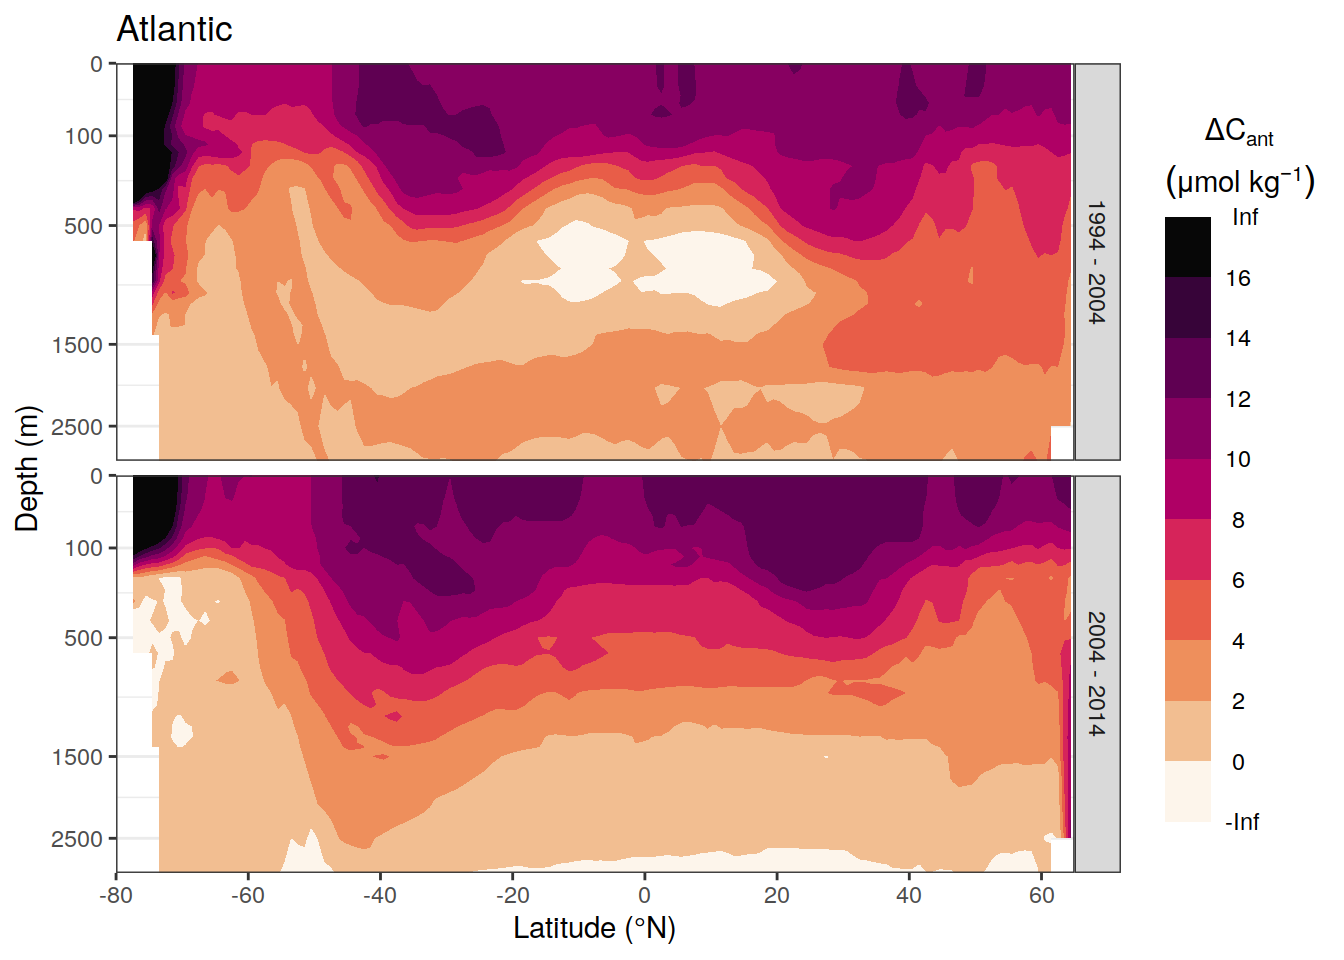
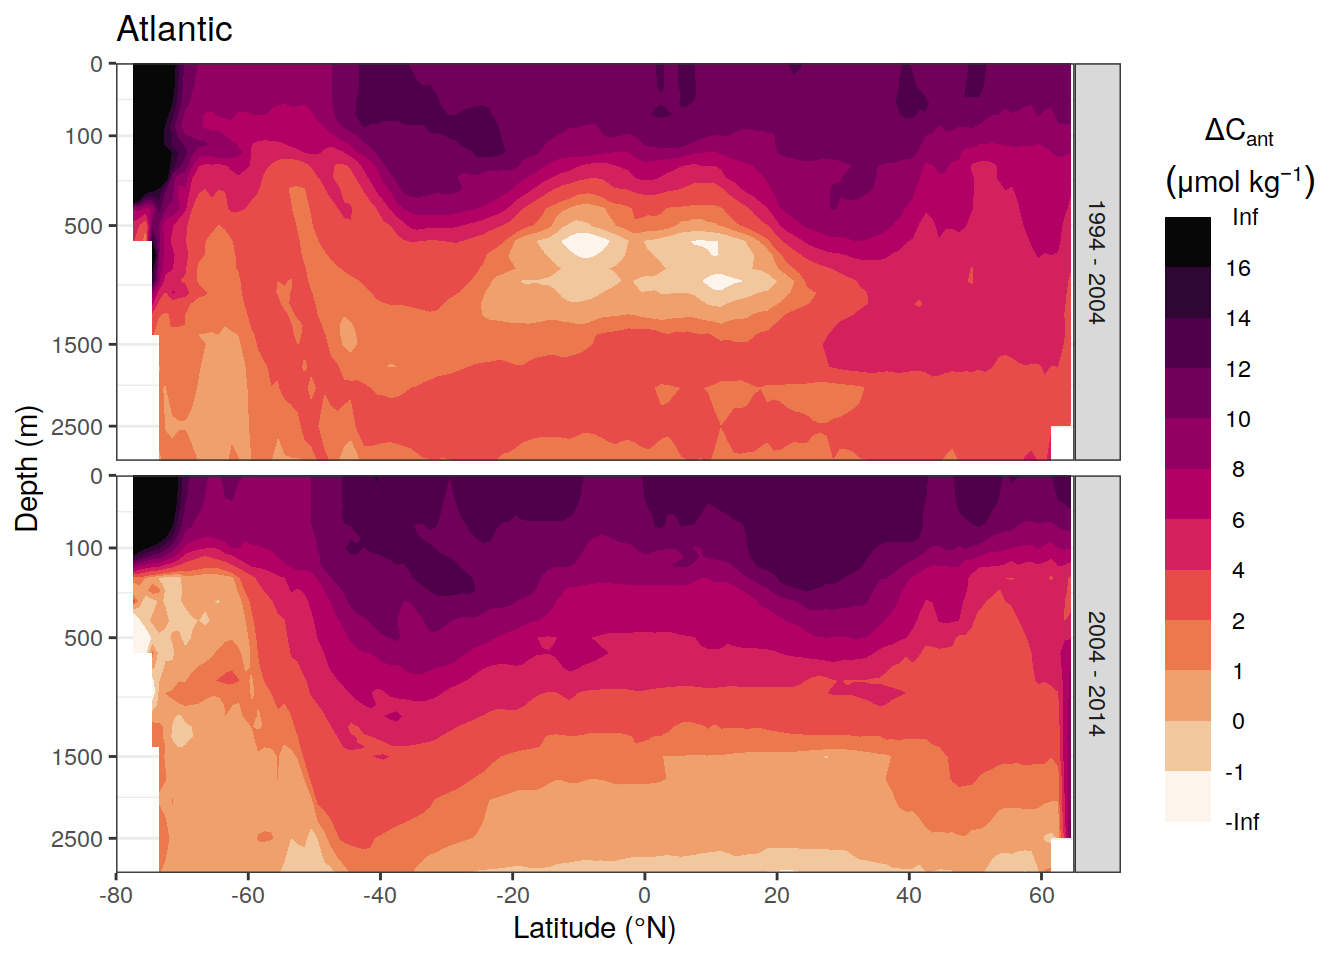
Build site.

diff --git a/docs/results_publication.html b/docs/results_publication.html
@@ -715,16 +715,16 @@ This reproducible <a href="https://rmarkdown.rstudio.com">R Markdown</a> analysi
 <div class="panel panel-default">
 <div class="panel-heading">
 <p class="panel-title">
-<a data-toggle="collapse" data-parent="#workflowr-checks" href="#strongRepositoryversionstrongahrefhttpsgithubcomjensdanielmuelleremlrobsanalysistree55e9ac603e2253f761dd009a3b1db8ee03a77f64targetblank55e9ac6a"> <span class="glyphicon glyphicon-ok text-success" aria-hidden="true"></span> <strong>Repository version:</strong> <a href="https://github.com/jens-daniel-mueller/emlr_obs_analysis/tree/55e9ac603e2253f761dd009a3b1db8ee03a77f64" target="_blank">55e9ac6</a> </a>
+<a data-toggle="collapse" data-parent="#workflowr-checks" href="#strongRepositoryversionstrongahrefhttpsgithubcomjensdanielmuelleremlrobsanalysistree6fc84382a3e4b93680d35a0056149ad21e2f51aetargetblank6fc8438a"> <span class="glyphicon glyphicon-ok text-success" aria-hidden="true"></span> <strong>Repository version:</strong> <a href="https://github.com/jens-daniel-mueller/emlr_obs_analysis/tree/6fc84382a3e4b93680d35a0056149ad21e2f51ae" target="_blank">6fc8438</a> </a>
 </p>
 </div>
[2 lines of base64/hex data omitted]
 <div class="panel-body">
 <p>
 Great! You are using Git for version control. Tracking code development and connecting the code version to the results is critical for reproducibility.
 </p>
 <p>
-The results in this page were generated with repository version <a href="https://github.com/jens-daniel-mueller/emlr_obs_analysis/tree/55e9ac603e2253f761dd009a3b1db8ee03a77f64" target="_blank">55e9ac6</a>. See the <em>Past versions</em> tab to see a history of the changes made to the R Markdown and HTML files.
+The results in this page were generated with repository version <a href="https://github.com/jens-daniel-mueller/emlr_obs_analysis/tree/6fc84382a3e4b93680d35a0056149ad21e2f51ae" target="_blank">6fc8438</a>. See the <em>Past versions</em> tab to see a history of the changes made to the R Markdown and HTML files.
 </p>
 <p>
 Note that you need to be careful to ensure that all relevant files for the analysis have been committed to Git prior to generating the results (you can use <code>wflow_publish</code> or <code>wflow_git_commit</code>). workflowr only checks the R Markdown file, but you know if there are other scripts or data files that it depends on. Below is the status of the Git repository when the results were generated:
@@ -787,6 +787,40 @@ Message
 </tr>
 </thead>
 <tbody>
+<tr>
+<td>
+Rmd
+</td>
+<td>
+<a href="https://github.com/jens-daniel-mueller/emlr_obs_analysis/blob/6fc84382a3e4b93680d35a0056149ad21e2f51ae/analysis/results_publication.Rmd" target="_blank">6fc8438</a>
+</td>
+<td>
+jens-daniel-mueller
+</td>
+<td>
+2022-05-16
+</td>
+<td>
+plot individual zonal sections
+</td>
+</tr>
+<tr>
+<td>
+html
+</td>
+<td>
+<a href="https://rawcdn.githack.com/jens-daniel-mueller/emlr_obs_analysis/c71227f690adc238cc14e62558a4aa05bc778583/docs/results_publication.html" target="_blank">c71227f</a>
+</td>
+<td>
+jens-daniel-mueller
+</td>
+<td>
+2022-05-16
+</td>
+<td>
+Build site.
+</td>
+</tr>
 <tr>
 <td>
 Rmd
@@ -6449,6 +6483,7 @@ jens-daniel-mueller
     ~ p_section_zonal_continous_depth(
       df = .x,
       var = &quot;dcant&quot;,
+      breaks = c(-Inf, -1, 0, 1, seq(2,16,2), Inf),
       plot_slabs = &quot;n&quot;,
       title_text = .x$basin_AIP,
       subtitle_text = NULL
@@ -6530,9 +6565,83 @@ jens-daniel-mueller
 <pre><code>
 [[2]]</code></pre>
 <p><img src="figure/results_publication.Rmd/zonal_sections_basin-2.png" width="672" style="display: block; margin: auto;" /></p>
+<p>
+<button type="button" class="btn btn-default btn-xs btn-workflowr btn-workflowr-fig" data-toggle="collapse" data-target="#fig-zonal_sections_basin-2">
+Past versions of zonal_sections_basin-2.png
+</button>
+</p>
+<div id="fig-zonal_sections_basin-2" class="collapse">
+<div class="table-responsive">
+<table class="table table-condensed table-hover">
+<thead>
+<tr>
+<th>
+Version
+</th>
+<th>
+Author
+</th>
+<th>
+Date
+</th>
+</tr>
+</thead>
+<tbody>
+<tr>
+<td>
+<a href="https://github.com/jens-daniel-mueller/emlr_obs_analysis/blob/c71227f690adc238cc14e62558a4aa05bc778583/docs/figure/results_publication.Rmd/zonal_sections_basin-2.png" target="_blank">c71227f</a>
+</td>
+<td>
+jens-daniel-mueller
+</td>
+<td>
+2022-05-16
+</td>
+</tr>
+</tbody>
+</table>
+</div>
+</div>
 <pre><code>
 [[3]]</code></pre>
 <p><img src="figure/results_publication.Rmd/zonal_sections_basin-3.png" width="672" style="display: block; margin: auto;" /></p>
+<p>
+<button type="button" class="btn btn-default btn-xs btn-workflowr btn-workflowr-fig" data-toggle="collapse" data-target="#fig-zonal_sections_basin-3">
+Past versions of zonal_sections_basin-3.png
+</button>
+</p>
+<div id="fig-zonal_sections_basin-3" class="collapse">
+<div class="table-responsive">
+<table class="table table-condensed table-hover">
+<thead>
+<tr>
+<th>
+Version
+</th>
+<th>
+Author
+</th>
+<th>
+Date
+</th>
+</tr>
+</thead>
+<tbody>
+<tr>
+<td>
+<a href="https://github.com/jens-daniel-mueller/emlr_obs_analysis/blob/c71227f690adc238cc14e62558a4aa05bc778583/docs/figure/results_publication.Rmd/zonal_sections_basin-3.png" target="_blank">c71227f</a>
+</td>
+<td>
+jens-daniel-mueller
+</td>
+<td>
+2022-05-16
+</td>
+</tr>
+</tbody>
+</table>
+</div>
+</div>
 </div>
 <div id="dcant---absolute-delta-1" class="section level2" number="6.2">
 <h2><span class="header-section-number">6.2</span> dcant - absolute delta</h2>
